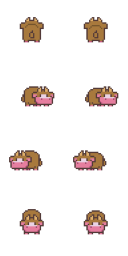
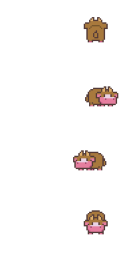
update : 5초마다10%의HP회복

diff --git a/GameServer/GameServer/Player.cpp b/GameServer/GameServer/Player.cpp
@@ -70,6 +70,23 @@ void Player::SendMovePacketToViewers()
     }
 }
 
+void Player::SendStatusChangePacket()
+{
+    auto mySession = GetSession();
+
+    S2C_StatusChange statusPkt{};
+    statusPkt.size = sizeof(S2C_StatusChange);
+    statusPkt.type = S2C_STATUS_CHANGE;
+    statusPkt.object_id = _id;
+    statusPkt.hp = _hp;
+    statusPkt.max_hp = _maxHp;
+    statusPkt.level = _level;
+    statusPkt.exp = _exp;
+
+    if (mySession)
+        mySession->DoSend(reinterpret_cast<const char*>(&statusPkt));
+}
+
 void Player::UpdateViewList(const std::unordered_set<int>& newViewList)
 {
     auto mySession = GetSession();
@@ -124,6 +141,8 @@ void Player::UpdateViewList(const std::unordered_set<int>& newViewList)
 void Player::Attack()
 {
     auto mySession = GetSession();
+    if (!mySession) return;
+
     S2C_AttackObject atkPkt{ sizeof(S2C_AttackObject), S2C_ATTACK_OBJECT, _id };
 
     if (mySession) mySession->DoSend(reinterpret_cast<const char*>(&atkPkt));
@@ -164,24 +183,13 @@ void Player::OnDamaged(int attackerId, int damage)
 {
     if (_state == OBJECT_STATE::DEAD) return;
 
+    auto mySession = GetSession();
+    if (!mySession) return;
+
     _hp -= damage;
     if (_hp < 0) _hp = 0;
 
-    auto mySession = GetSession();
-
-    S2C_StatusChange statusPkt{};
-    statusPkt.size = sizeof(S2C_StatusChange);
-    statusPkt.type = S2C_STATUS_CHANGE;
-    statusPkt.object_id = _id;
-    statusPkt.hp = _hp;
-    statusPkt.max_hp = _maxHp;
-    statusPkt.level = _level;
-    statusPkt.exp = _exp;
-
-    if (mySession)
-    {
-        mySession->DoSend(reinterpret_cast<const char*>(&statusPkt));
-    }
+    SendStatusChangePacket();
 
     if (_hp <= 0)
     {
@@ -206,6 +214,8 @@ void Player::OnDamaged(int attackerId, int damage)
             if (nearbySession)
                 nearbySession->DoSend(reinterpret_cast<const char*>(&hitPkt));
         }
+
+        RegisterHeal();
     }
 }
 
@@ -214,6 +224,7 @@ void Player::OnDeath(int attackerId)
     if (_state == OBJECT_STATE::DEAD) return;
 
     auto mySession = GetSession();
+    if (!mySession) return;
 
     _hp = 0;
     _state = OBJECT_STATE::DEAD;
@@ -258,17 +269,9 @@ void Player::Respawn()
     GSectorManager->SendNearbyObjectsToPlayer(selfPlayer);
 
     auto mySession = GetSession();
+    if (!mySession) return;
 
-    S2C_StatusChange statusPkt{};
-    statusPkt.size = sizeof(S2C_StatusChange);
-    statusPkt.type = S2C_STATUS_CHANGE;
-    statusPkt.object_id = _id;
-    statusPkt.hp = _hp;
-    statusPkt.max_hp = _maxHp;
-    statusPkt.level = _level;
-    statusPkt.exp = _exp;
-    if (mySession)
-        mySession->DoSend(reinterpret_cast<const char*>(&statusPkt));
+    SendStatusChangePacket();
 
     if (mySession)
         mySession->send_add_object_packet(shared_from_this());
@@ -279,23 +282,44 @@ void Player::GetExp(int bonus)
     _exp += (_level * _level * 2 * bonus);
     if (_exp >= _level * 100) LevelUp(_exp);
 
-    auto mySession = GetSession();
-
-    S2C_StatusChange statusPkt{};
-    statusPkt.size = sizeof(S2C_StatusChange);
-    statusPkt.type = S2C_STATUS_CHANGE;
-    statusPkt.object_id = _id;
-    statusPkt.hp = _hp;
-    statusPkt.max_hp = _maxHp;
-    statusPkt.level = _level;
-    statusPkt.exp = _exp;
-
-    if (mySession)
-        mySession->DoSend(reinterpret_cast<const char*>(&statusPkt));
+    SendStatusChangePacket();
 }
 
 void Player::LevelUp(int currExp)
 {
     _exp = currExp - (100 * _level);
     _level += 1;
+}
+
+void Player::RegisterHeal()
+{
+    if (_isHealed) return;
+    _isHealed = true;
+
+    TIMER_EVENT nextEvent;
+    nextEvent.event_type = TIMER_EVENT_PLAYER_HEAL;
+    nextEvent.obj_id = this->_id;
+    nextEvent.wakeup_time = TimerThread::Now() + std::chrono::milliseconds(PLAYER_HEAL_INTERVAL);
+
+    GTimerThread->RegisterEvent(nextEvent);
+}
+
+void Player::Heal()
+{
+    _isHealed = false;
+
+    int heal_amount = _maxHp / 10;
+
+    _hp += heal_amount;
+
+    if (_hp > _maxHp)
+    {
+        _hp = _maxHp;
+    }
+    else
+    {
+        RegisterHeal();
+    }
+    
+    SendStatusChangePacket();
 }

diff --git a/GameServer/GameServer/Player.h b/GameServer/GameServer/Player.h
@@ -28,6 +28,7 @@ public:
     std::shared_ptr<Session> GetSession() { return _session.lock(); }
 
     void SendMovePacketToViewers();
+    void SendStatusChangePacket();
     void UpdateViewList(const std::unordered_set<int>& newViewList);
 
     void Attack();
@@ -37,6 +38,8 @@ public:
     void Respawn() override;
     void GetExp(int bonus);
     void LevelUp(int currExp);
+    void RegisterHeal();
+    void Heal();
 
 public:
     int _visualId = 0;
@@ -46,6 +49,8 @@ public:
     uint64_t _lastAttackTime = 0;
     uint64_t _clientMoveTime = 0;
     uint64_t _lastMoveTime = 0;
+
+    bool _isHealed = false;
 
     std::weak_ptr<Session> _session;
     std::unordered_set<int> _viewList;

diff --git a/GameServer/GameServer/TimerThread.cpp b/GameServer/GameServer/TimerThread.cpp
@@ -113,6 +113,7 @@ void TimerThread::ProcessTimerEvent(const TIMER_EVENT& timerEvent)
                 auto player = std::static_pointer_cast<Player>(GObjectManager->FindObject(obj_id));
                 if (!player) return;
                 if (player->_state == OBJECT_STATE::DEAD) return;
+                player->Heal();
             });
         break;
     }

diff --git a/GameServer/GameServer/protocol_2026.h b/GameServer/GameServer/protocol_2026.h
@@ -8,6 +8,7 @@ constexpr int NUM_NPCS = 200000;
 constexpr int NPC_ID_START = 1000000;
 constexpr int NPC_MOVE_INTERVAL = 500; // in milliseconds
 constexpr int NPC_ATTACK_INTERVAL = 1000; // in milliseconds
+constexpr int PLAYER_HEAL_INTERVAL = 5000; // in milliseconds
 constexpr int MAX_NAME_LEN = 20;
 constexpr int MAX_CHAT_MSG_LEN = 200;
 constexpr int BUF_SIZE = 1024;